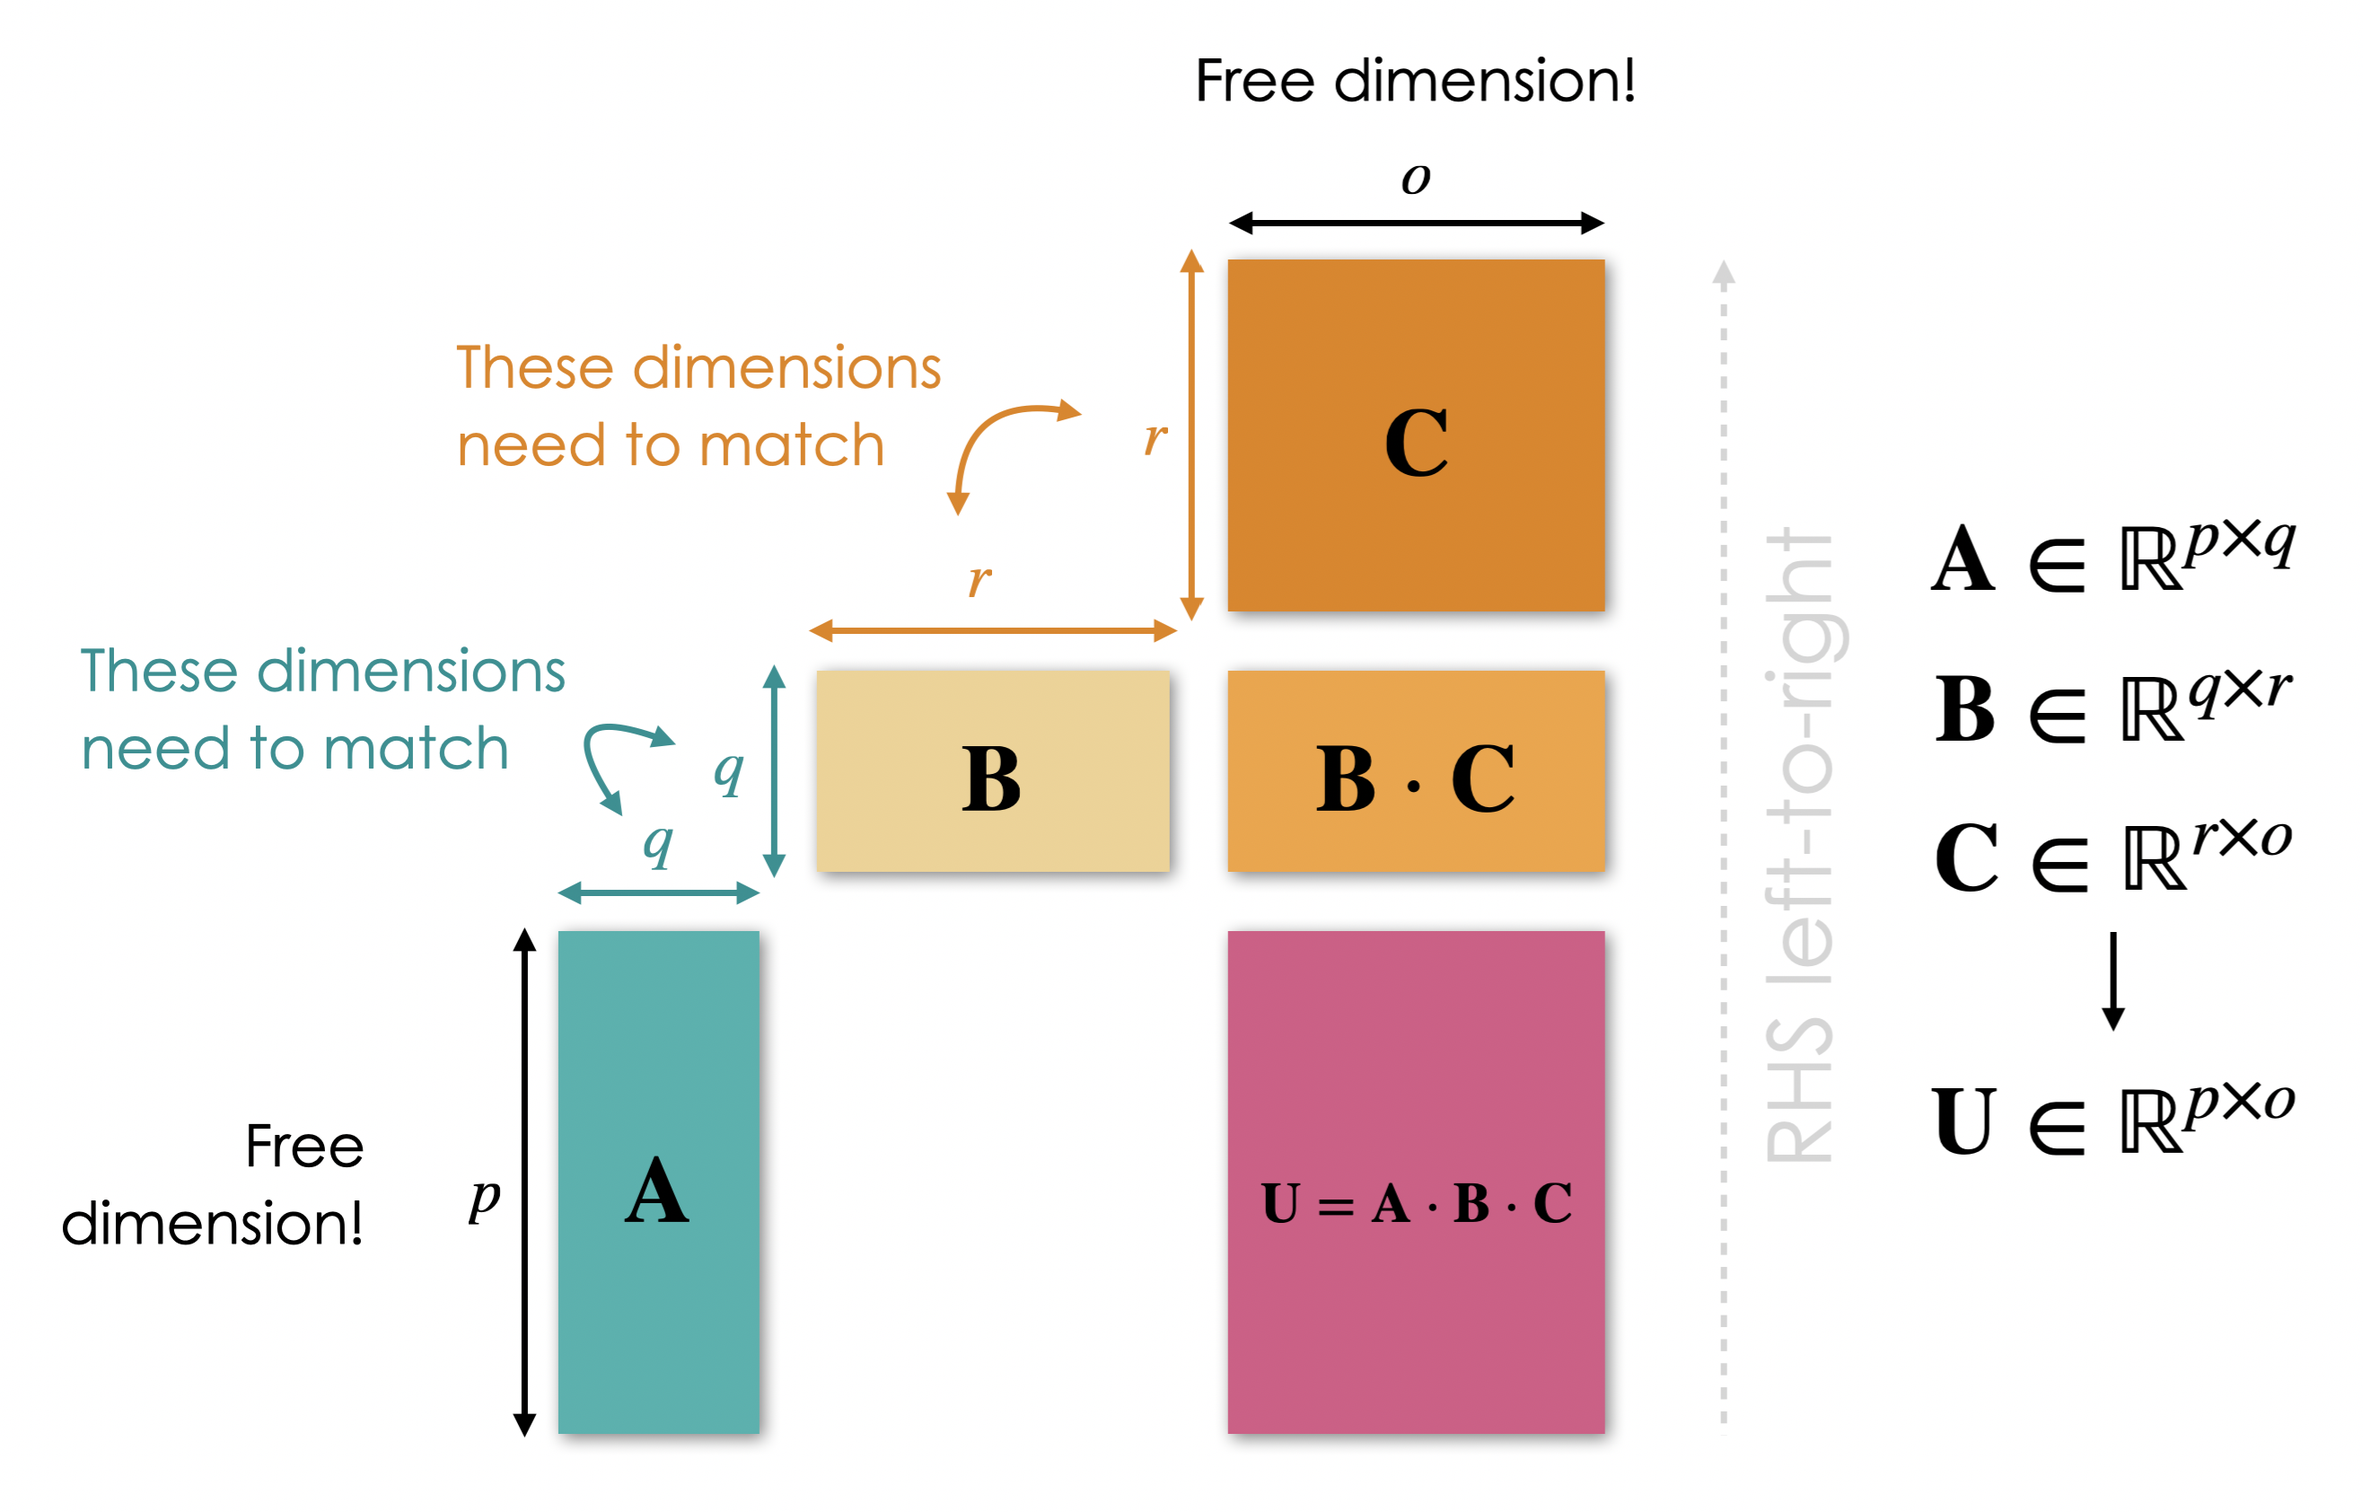
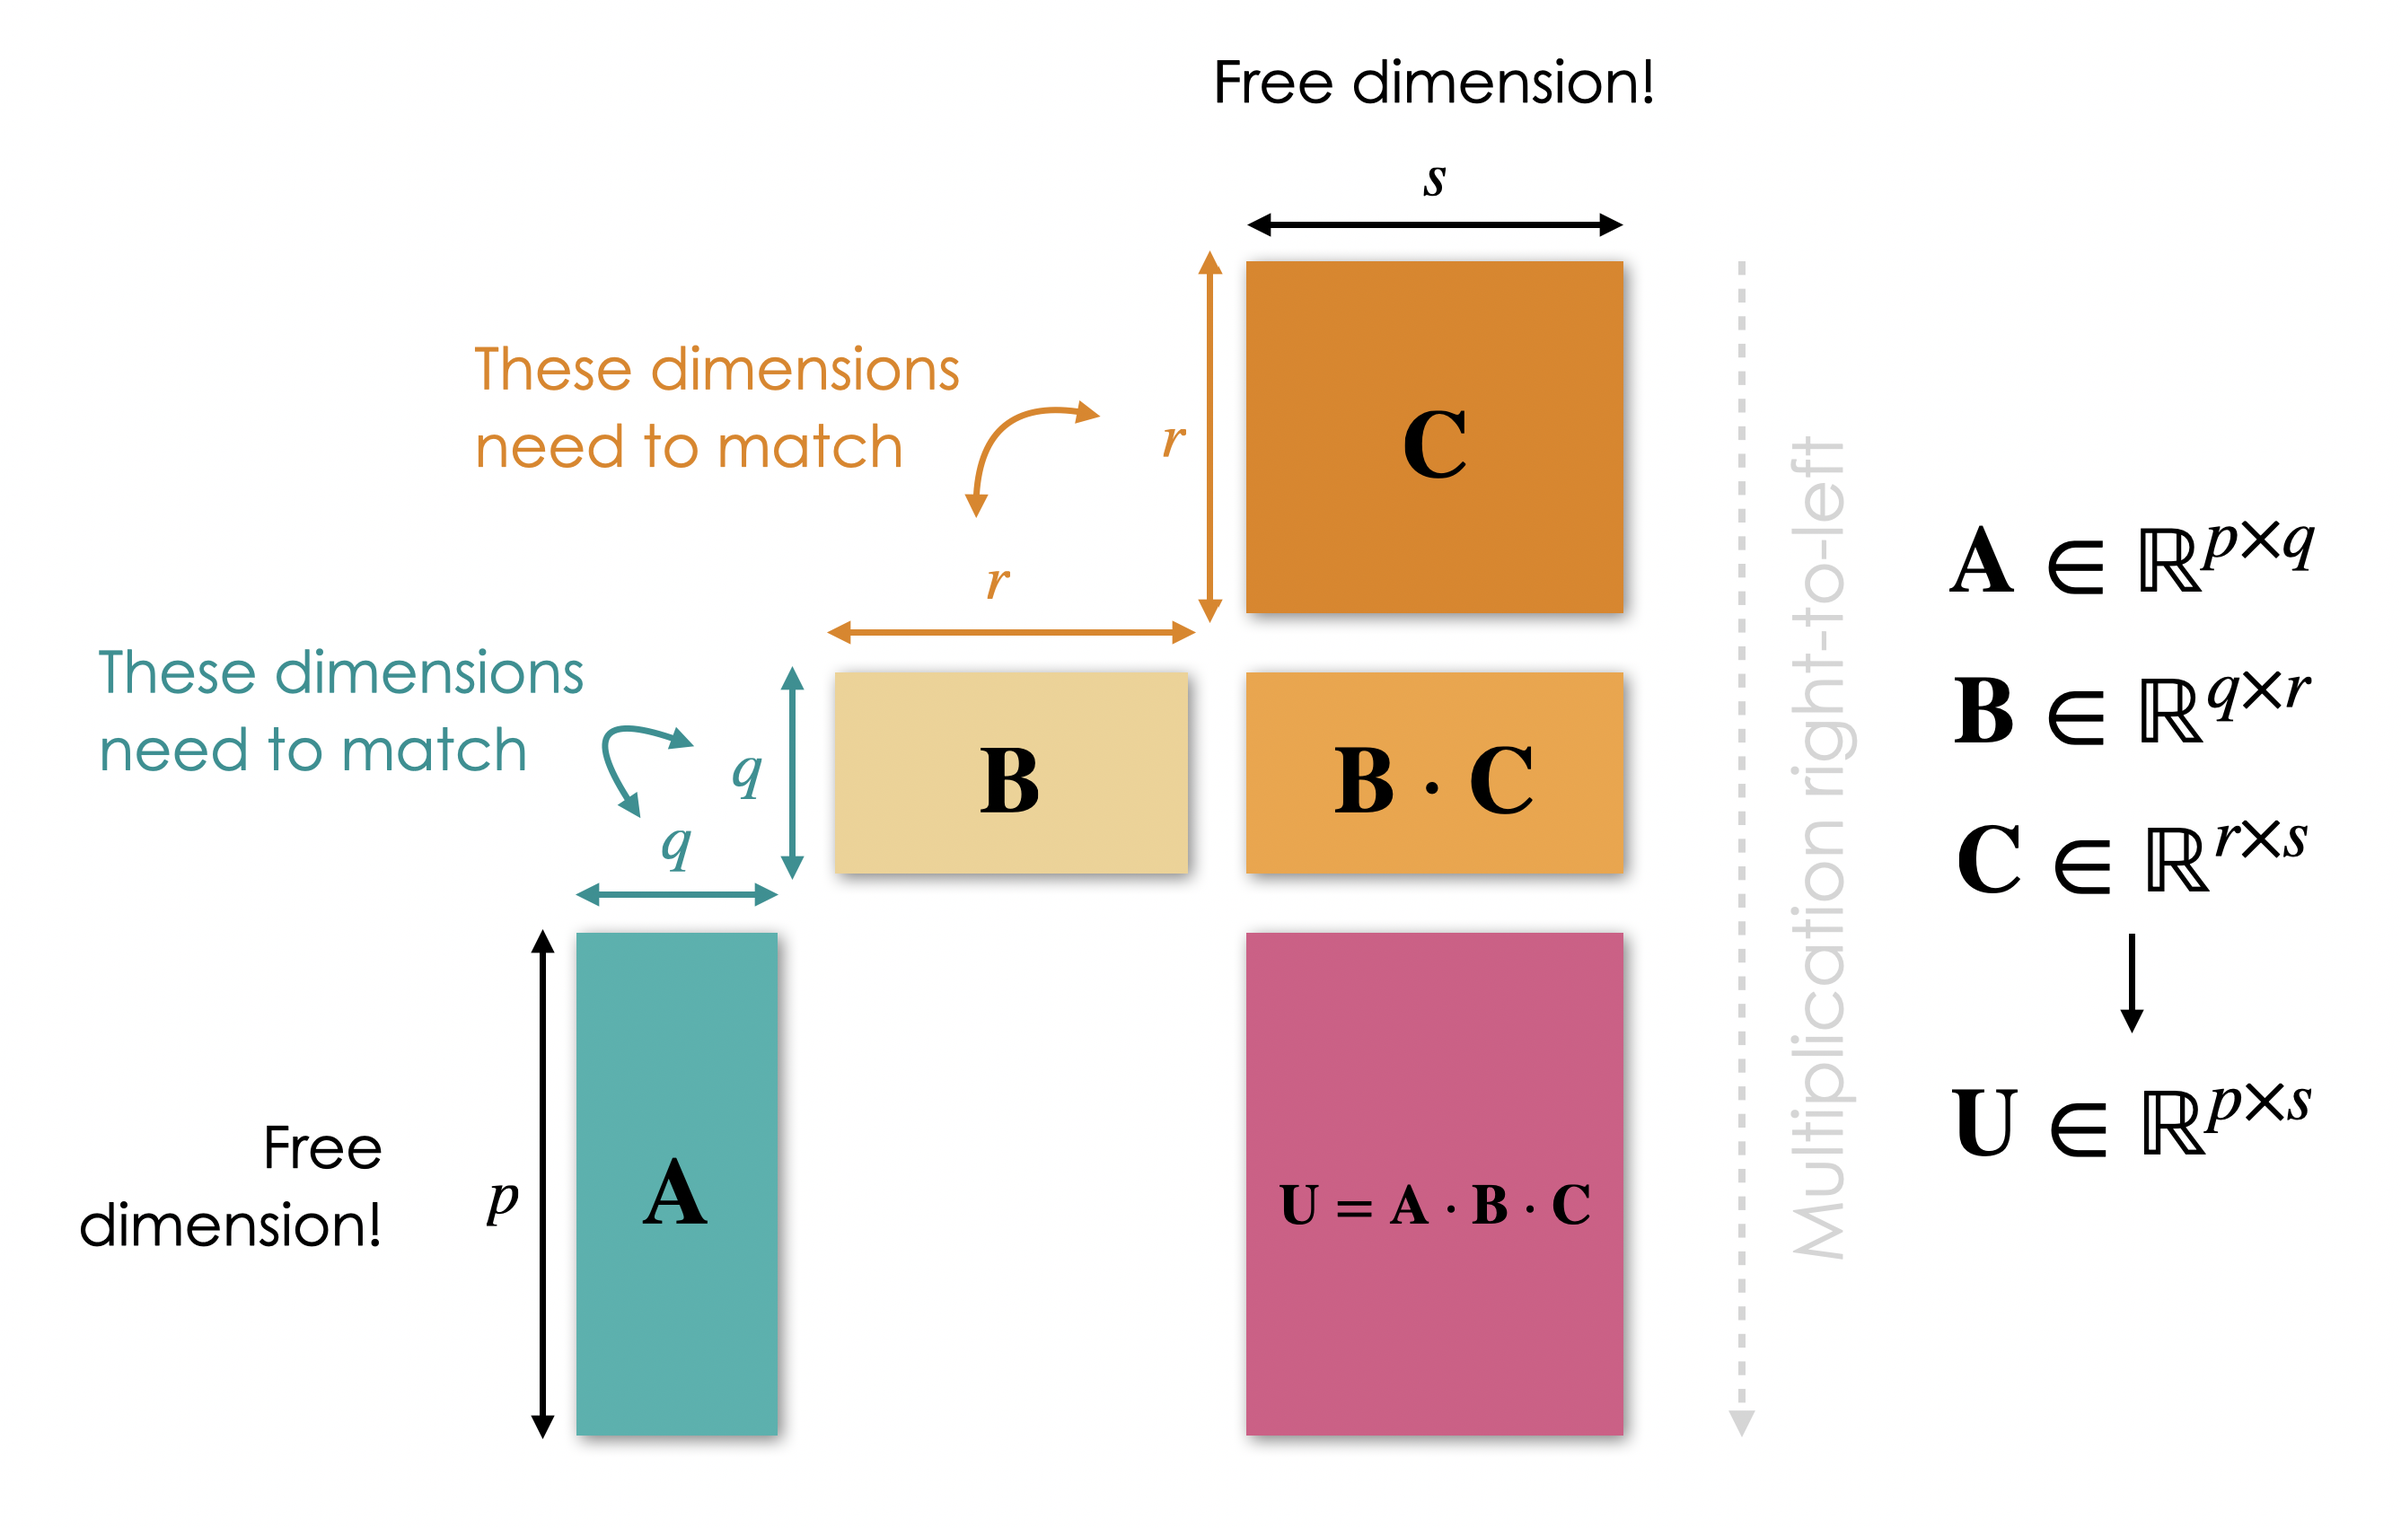
Site update

diff --git a/_posts/2024-04-13-visualizing-matrices.md b/_posts/2024-04-13-visualizing-matrices.md
@@ -23,7 +23,7 @@ is a really neat way to debug your operations on matrices! In this note, I show 
 ## Multiplying two matrices
 
 Suppose we want to multiply two matrices, <span class="math display">$$\mathbf{A} \in \mathbb{R}^{(p \times q)}$$</span>
-and <span class="math display">$$\mathbf{B} \in \mathbb{R}^{(q \times r)}$$</span> and infer the shape of the
+and <span class="math display">$$\mathbf{B} \in \mathbb{R}^{(q \times r)}$$</span>, and infer the shape of the
 resulting matrix, <span class="math display">$$\mathbf{U}$$</span>:
 
 <span class="math display">$$\mathbf{U} = \mathbf{A} \cdot \mathbf{B}$$</span>
@@ -36,19 +36,26 @@ of <span class="math display">$$\mathbf{B}$$</span>:
   <img src="https://github.com/kamilazdybal/kamilazdybal.github.io/raw/main/_posts/visualizing-matrices-A-times-B.png" width="600">
 </p>
 
-The remaining dimensions, <span class="math display">$$p$$</span> and <span class="math display">$$r$$</span> are "free",
+The remaining dimensions, <span class="math display">$$p$$</span> and <span class="math display">$$r$$</span>, are "free",
 in a sense that they can be anything and they dictate the dimensions on the resulting matrix, <span class="math display">$$\mathbf{U}$$</span>.
 
 So finally, <span class="math display">$$\mathbf{U} \in \mathbb{R}^{(p \times r)}$$</span>.
 
 ## Multiplying three or more matrices
 
-Need to multiply three or more matrices?
+Need to multiply three or more matrices? No problem! Just stack your earlier matrix at the bottom and repeat!
+
+Let's take <span class="math display">$$\mathbf{A} \in \mathbb{R}^{(p \times q)}$$</span>, 
+<span class="math display">$$\mathbf{B} \in \mathbb{R}^{(q \times r)}$$</span> and 
+<span class="math display">$$\mathbf{C} \in \mathbb{R}^{(r \times s)}$$</span>. The matrix multiplication is as follows:
 
 <span class="math display">$$\mathbf{U} = \mathbf{C} \cdot \mathbf{B} \cdot \mathbf{A}$$</span>
 
-No problem! Just stack your earlier matrix at the bottom and repeat!
+Now consider your matrix multiplication equation from right to left and draw it from top to bottom, stacking the consecutive matrices: 
 
 <p align="center">
-  <img src="https://github.com/kamilazdybal/kamilazdybal.github.io/raw/main/_posts/visualizing-matrices-A-times-B-times-C.png" width="600">
+  <img src="https://github.com/kamilazdybal/kamilazdybal.github.io/raw/main/_posts/visualizing-matrices-A-times-B-times-C.png" width="800">
 </p>
+
+<span class="math display">$$p$$</span> and <span class="math display">$$s$$</span>, are "free dimensions" and they dictate
+the dimension of the resulting matrix, so that <span class="math display">$$\mathbf{U} \in \mathbb{R}^{(p \times s)}$$</span>.
